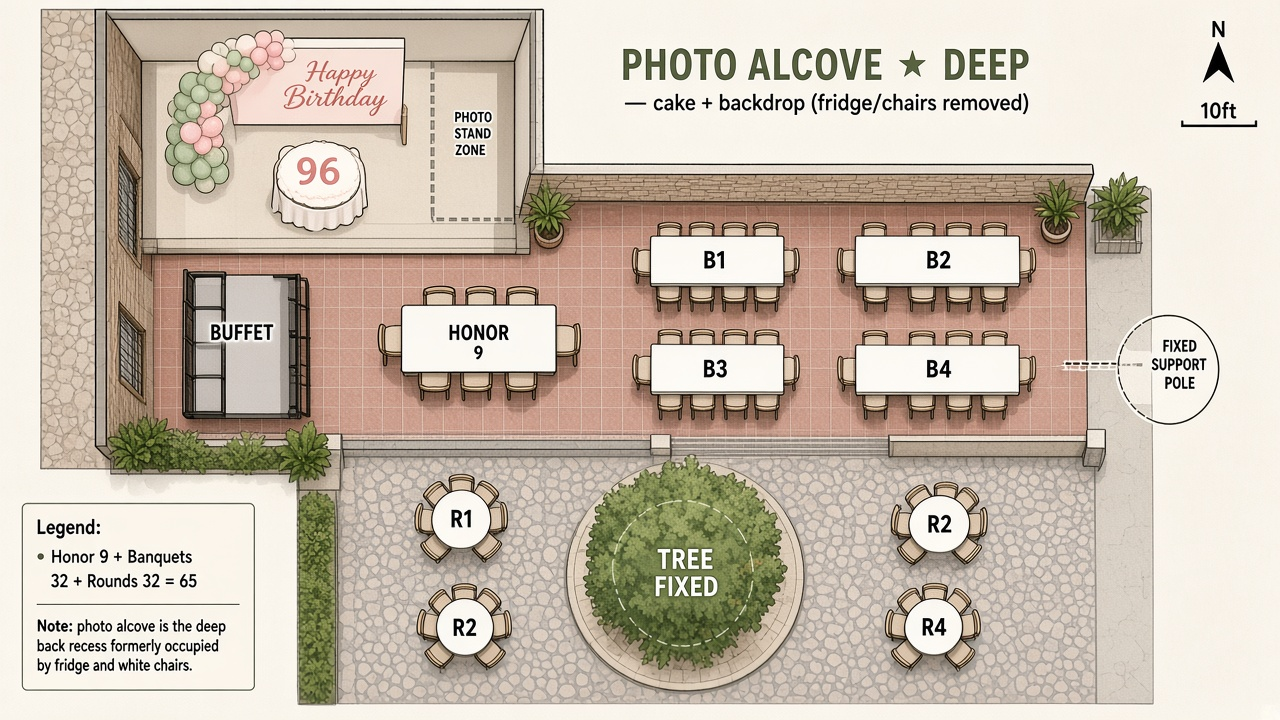
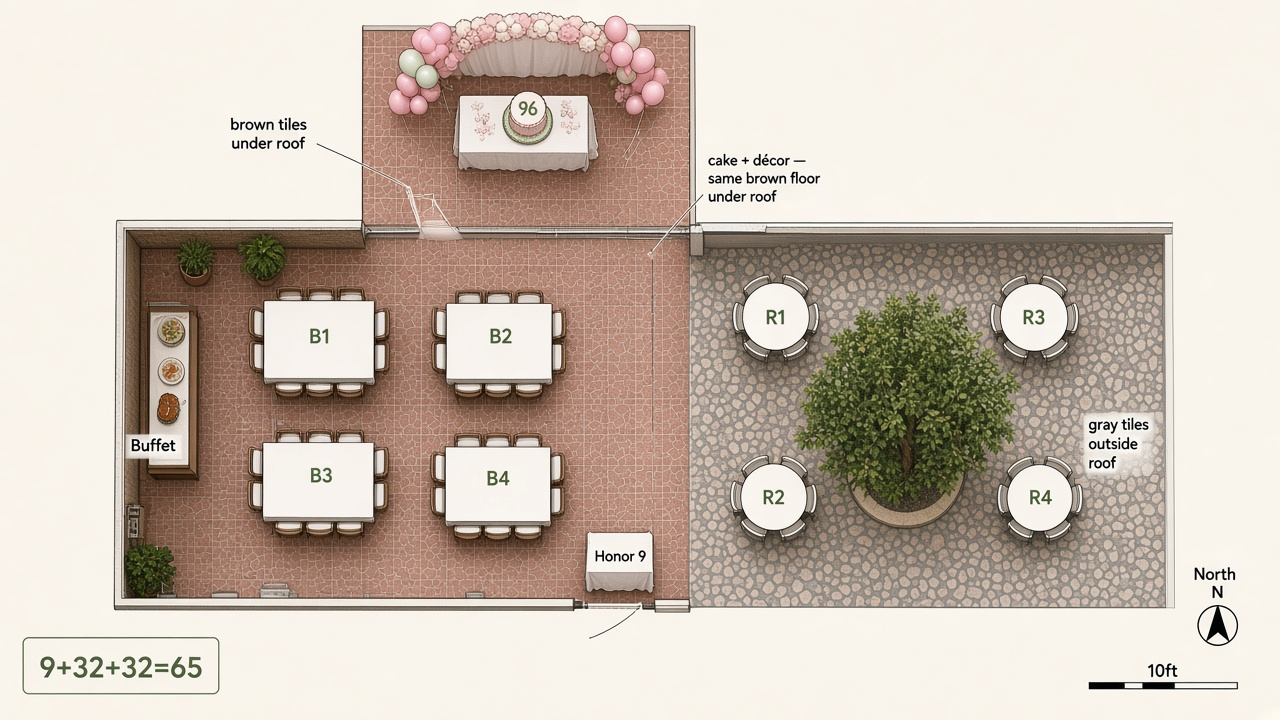
Fix flooring: brown under roof, gray outside
Show continuous brown tiles in a straight line under one roof
through the cake/décor zone; gray tiles only past the roof edge.

diff --git a/birthday-party-plan/index.html b/birthday-party-plan/index.html
@@ -89,14 +89,14 @@
     <p class="eyebrow">Grandma’s 96th · Boho Spring Garden</p>
     <h1>Patio Floor Plan — <em>65 Seated</em></h1>
     <p class="lede">
-      Full table seating for 65, buffet service, and grandma’s cake/photo backdrop in the
-      <strong>deep back alcove</strong> (where the fridge and stacked white chairs are now — those come out).
-      That recess goes further back than the main patio; the layout clears the tree planter and roof pole.
+      Full table seating for 65, buffet service, and grandma’s cake/photo backdrop at the far end of the
+      covered patio. <strong>Brown tiles run in a straight line under one roof</strong> through the cake/décor
+      space; <strong>gray tiles are only outside the roof</strong>. Layout clears the tree planter and roof pole.
     </p>
     <div class="meta">
       <span class="chip"><strong>Seated</strong> 65</span>
-      <span class="chip"><strong>Photo spot</strong> deep back alcove (fridge corner)</span>
-      <span class="chip"><strong>Obstructions</strong> tree · support pole</span>
+      <span class="chip"><strong>Photo spot</strong> far end under roof (brown tile)</span>
+      <span class="chip"><strong>Outside roof</strong> gray tiles · tree · rounds</span>
       <span class="chip"><strong>Theme</strong> sage · dusty pink · cream</span>
     </div>
   </header>
@@ -104,12 +104,12 @@
   <main>
     <div class="plan-card">
       <img src="./assets/patio-floor-plan-65.png" alt="Revised floor plan: 65 seated tables around tree and pole, buffet, grandma photo alcove" />
-      <p class="caption">Labeled floor plan — deep photo alcove at the far end (fridge/chairs removed).</p>
+      <p class="caption">Floor plan — continuous brown tiles under one roof (including cake/décor); gray tiles only outside the roof.</p>
     </div>
 
     <div class="plan-card">
       <img src="./assets/patio-party-spatial-render.png" alt="Spatial render of 96th birthday patio with full seating and photo backdrop" />
-      <p class="caption">Same Wyze angle as your photo: deep back alcove cleared for cake, backdrop, and balloons; banquets fill the main covered patio.</p>
+      <p class="caption">Same Wyze angle: brown tile runs straight under the roof to the cake/backdrop; gray paving only past the pole outside.</p>
     </div>
 
     <div class="plan-card" aria-label="Annotated SVG floor plan">
@@ -246,20 +246,20 @@
           <rect x="347" y="238" width="9" height="6" fill="#e8dfd2" stroke="#a89f90"/>
         </g>
 
-        <!-- Honor table near photo alcove but not blocking (south of alcove) -->
+        <!-- Honor table near photo alcove opening -->
         <g filter="url(#soft)">
-          <rect x="55" y="160" width="70" height="26" rx="2" fill="#fffaf3" stroke="#c9a84c" stroke-width="2"/>
-          <text x="90" y="172" text-anchor="middle" font-size="8" fill="#8a6b1f" font-family="Outfit, sans-serif">HONOR · 9</text>
-          <text x="90" y="181" text-anchor="middle" font-size="6" fill="#6b655c" font-family="Outfit, sans-serif">grandma + family</text>
-          <rect x="60" y="152" width="9" height="6" fill="#e8dfd2" stroke="#a89f90"/>
-          <rect x="74" y="152" width="9" height="6" fill="#e8dfd2" stroke="#a89f90"/>
-          <rect x="88" y="152" width="9" height="6" fill="#e8dfd2" stroke="#a89f90"/>
-          <rect x="102" y="152" width="9" height="6" fill="#e8dfd2" stroke="#a89f90"/>
-          <rect x="60" y="188" width="9" height="6" fill="#e8dfd2" stroke="#a89f90"/>
-          <rect x="74" y="188" width="9" height="6" fill="#e8dfd2" stroke="#a89f90"/>
-          <rect x="88" y="188" width="9" height="6" fill="#e8dfd2" stroke="#a89f90"/>
-          <rect x="102" y="188" width="9" height="6" fill="#e8dfd2" stroke="#a89f90"/>
-          <rect x="116" y="168" width="6" height="9" fill="#e8dfd2" stroke="#a89f90"/>
+          <rect x="175" y="115" width="70" height="26" rx="2" fill="#fffaf3" stroke="#c9a84c" stroke-width="2"/>
+          <text x="210" y="127" text-anchor="middle" font-size="8" fill="#8a6b1f" font-family="Outfit, sans-serif">HONOR · 9</text>
+          <text x="210" y="136" text-anchor="middle" font-size="6" fill="#6b655c" font-family="Outfit, sans-serif">grandma + family</text>
+          <rect x="180" y="107" width="9" height="6" fill="#e8dfd2" stroke="#a89f90"/>
+          <rect x="194" y="107" width="9" height="6" fill="#e8dfd2" stroke="#a89f90"/>
+          <rect x="208" y="107" width="9" height="6" fill="#e8dfd2" stroke="#a89f90"/>
+          <rect x="222" y="107" width="9" height="6" fill="#e8dfd2" stroke="#a89f90"/>
+          <rect x="180" y="143" width="9" height="6" fill="#e8dfd2" stroke="#a89f90"/>
+          <rect x="194" y="143" width="9" height="6" fill="#e8dfd2" stroke="#a89f90"/>
+          <rect x="208" y="143" width="9" height="6" fill="#e8dfd2" stroke="#a89f90"/>
+          <rect x="222" y="143" width="9" height="6" fill="#e8dfd2" stroke="#a89f90"/>
+          <rect x="236" y="123" width="6" height="9" fill="#e8dfd2" stroke="#a89f90"/>
         </g>
 
         <!-- ===== OPEN COURTYARD ===== -->
@@ -370,11 +370,11 @@
 
           <line x1="14" y1="320" x2="126" y2="320" stroke="#c9bfb0"/>
           <text x="70" y="342" text-anchor="middle" font-size="10" fill="#5c6b4a" font-family="Outfit, sans-serif" font-weight="500">PHOTO ZONE</text>
-          <text x="14" y="362" font-size="8" fill="#6b655c" font-family="Outfit, sans-serif">Kept where grandma’s</text>
-          <text x="14" y="376" font-size="8" fill="#6b655c" font-family="Outfit, sans-serif">95th photos were taken:</text>
-          <text x="14" y="390" font-size="8" fill="#8a6b1f" font-family="Outfit, sans-serif">block-wall alcove +</text>
-          <text x="14" y="404" font-size="8" fill="#8a6b1f" font-family="Outfit, sans-serif">cake table + backdrop</text>
-          <text x="14" y="418" font-size="8" fill="#6b655c" font-family="Outfit, sans-serif">Clear stand space in front</text>
+          <text x="14" y="362" font-size="8" fill="#6b655c" font-family="Outfit, sans-serif">Deep far alcove where</text>
+          <text x="14" y="376" font-size="8" fill="#6b655c" font-family="Outfit, sans-serif">fridge + white chairs are</text>
+          <text x="14" y="390" font-size="8" fill="#8a6b1f" font-family="Outfit, sans-serif">Remove those · set cake,</text>
+          <text x="14" y="404" font-size="8" fill="#8a6b1f" font-family="Outfit, sans-serif">backdrop + balloons</text>
+          <text x="14" y="418" font-size="8" fill="#6b655c" font-family="Outfit, sans-serif">Recess goes further back</text>
         </g>
 
         <!-- Scale -->
@@ -393,15 +393,15 @@
         <h2>What changed</h2>
         <ul>
           <li><strong>65 fully seated</strong> — honor 9 + banquets 32 + rounds 32</li>
-          <li><strong>Photo alcove</strong> — deep recess at the far end where the fridge and white chairs sit today; those are removed for cake, backdrop, and balloons</li>
-          <li><strong>Depth</strong> — alcove extends further back than the main covered patio (lighter floor in the recess)</li>
-          <li><strong>Tree</strong> — rounds orbit the planter with a clear ring</li>
-          <li><strong>Pole</strong> — banquets offset with ~36″ clearance</li>
-          <li><strong>Buffet</strong> — along the side wall outside the photo alcove</li>
+          <li><strong>Brown tiles + one roof</strong> — straight continuous floor under the metal roof, including the far-end cake/backdrop zone (fridge and white chairs removed)</li>
+          <li><strong>Gray tiles</strong> — only outside the roof edge (courtyard with the tree)</li>
+          <li><strong>Tree</strong> — rounds orbit the planter on the gray courtyard</li>
+          <li><strong>Pole</strong> — marks the roof edge; banquets stay on brown under roof with clearance</li>
+          <li><strong>Buffet</strong> — on brown tile under roof, not in the photo zone</li>
         </ul>
         <p class="note">
-          Honor table sits near the alcove opening so grandma is close for photos, without blocking
-          the stand-in-front space inside the recess.
+          Honor table sits near the photo zone opening so grandma is close for photos, without blocking
+          the stand-in-front space at the backdrop.
         </p>
       </section>
       <section class="panel">

diff --git a/birthday-party-plan/README.md b/birthday-party-plan/README.md
@@ -3,35 +3,33 @@
 **Theme:** Boho Spring Garden (sage · dusty pink · cream · wildflower)  
 **Open:** [index.html](./index.html)
 
-## Photo zone (corrected)
+## Flooring (corrected)
 
-The cake and birthday backdrop go in the **deep back alcove** at the far end of the covered patio — the recess where the **white fridge and stacked white chairs** are now.
+| Surface | Where |
+|---------|--------|
+| **Brown / reddish stone tiles** | Straight continuous run **under one roof**, including the far-end cake & décor zone |
+| **Gray / light pebble tiles** | **Only outside the roof** (open courtyard with the tree) |
 
-- Remove fridge, chair stacks, and clutter from that alcove  
-- Alcove extends **further back** than the main covered floor (lighter stone in the recess)  
-- Backdrop on the back wall, balloon arch framing the recess, cake table centered, clear stand space for photos with grandma  
+The white support pole sits at the roof edge between brown (covered) and gray (open).
 
-## Fixed obstructions
+## Photo zone
 
-| Element | Rule |
-|---------|------|
-| **Tree** (courtyard planter) | 4′ clear ring; rounds orbit it |
-| **Support pole** (roof edge) | 36″ clear; banquets offset |
+Far end of the **brown-tiled covered patio** (where the fridge and stacked white chairs are now):
 
-## Seating (65 chairs)
+- Remove fridge, chair stacks, and clutter  
+- Same brown floor under the same roof — not a separate gray recess  
+- Backdrop, balloon arch, cake (`96`), clear stand space for photos with grandma  
+
+## Seating (65)
 
 | Table | Location | Seats |
 |-------|----------|-------|
-| Honor | Near photo alcove opening | 9 |
-| Banquets B1–B4 | Covered patio around pole | 32 |
-| Rounds R1–R4 | Courtyard around tree | 32 |
+| Honor | Near photo zone on brown under roof | 9 |
+| Banquets B1–B4 | Covered brown patio around pole | 32 |
+| Rounds R1–R4 | Gray courtyard around tree | 32 |
 | **Total** | | **65** |
-
-## Service
-
-Buffet along the side wall — **not** inside the photo alcove.
 
 ## Visuals
 
 - [Floor plan](./assets/patio-floor-plan-65.png)  
-- [Spatial render](./assets/patio-party-spatial-render.png) — Wyze covered-patio angle with deep photo alcove  
+- [Spatial render](./assets/patio-party-spatial-render.png)  
